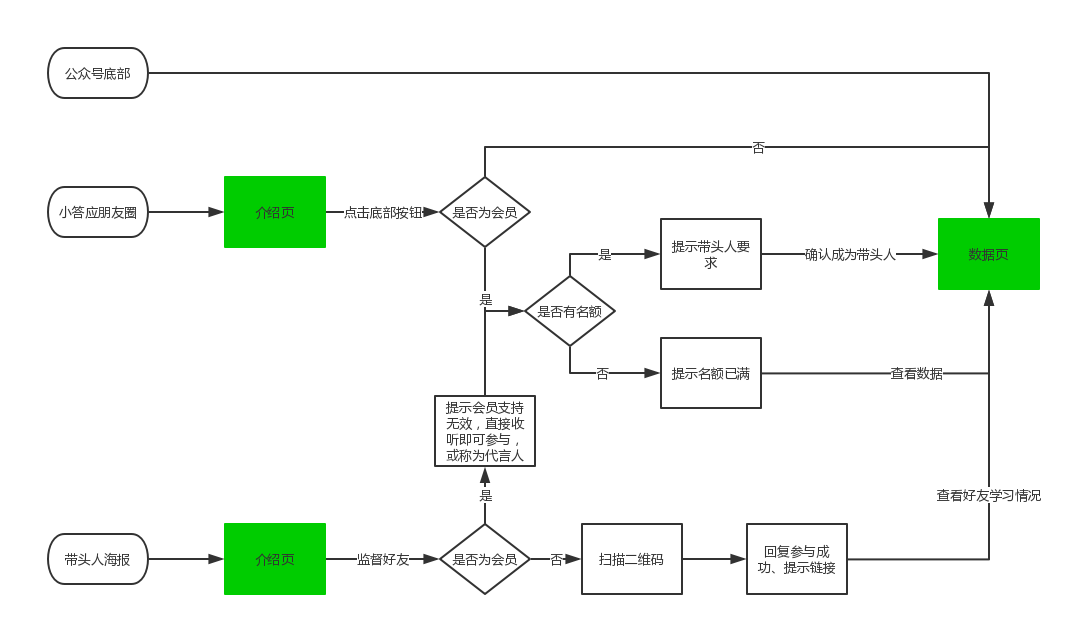
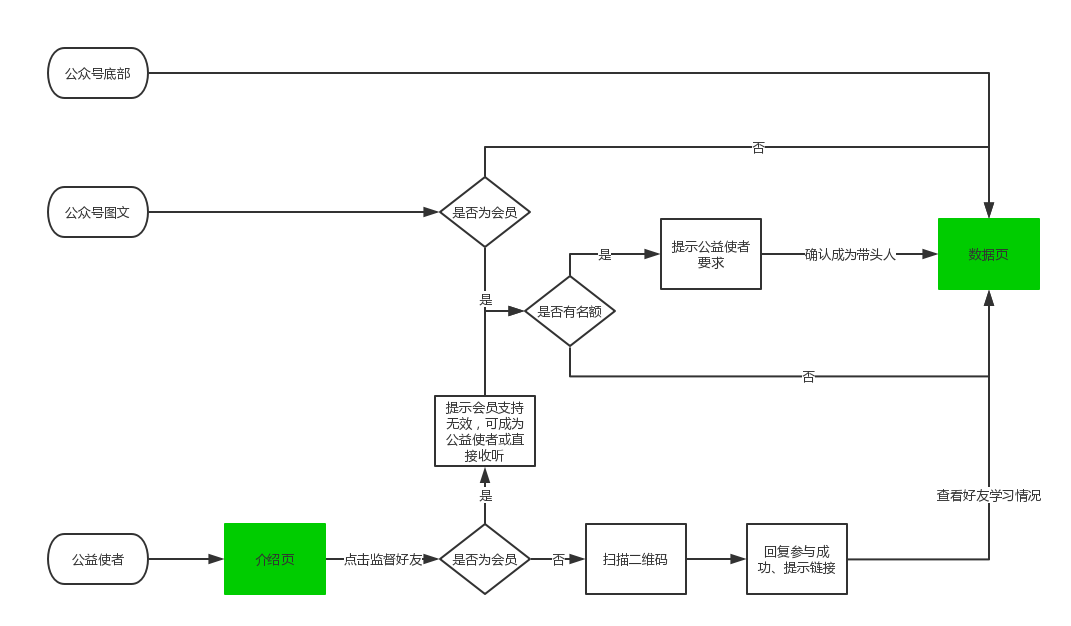
06081

diff --git a/views/emc/view-2.html b/views/emc/view-2.html
@@ -6,7 +6,7 @@
 	<li>本次活动于6月11日进行线下启动仪式，6月12日至6月16日（共计5天）为活动期，用户每学习1分钟，友邻优课代表用户向TPP捐赠1分钱。每天目标为<mark>x百万</mark>分钟。连续5日均达成目标，则<mark>干点儿啥</mark>；</li>
 	<li>本次活动有三种角色：
 		<ol>
-			<li>带头人：共计1000名，成为带头人后转发海报，获得3名好友支持即可获得<mark>“捐赠金额翻倍”</mark>特权，<mark>获得100名好友支持即可获得“再次翻倍”特权（需要讨论）</mark>；</li>
+			<li>公益使者：共计1000名，成为公益使者后转发海报，获得<mark>5</mark>名好友支持即可获得<mark>“捐赠金额翻倍”</mark>特权，<mark>获得50名好友支持即可获得“再次翻倍”特权</mark>；</li>
 			<li>参与者：所有友邻优课的有效学员（未过有效期）均自动被认定为活动参与者；</li>
 			<li>支持者：限非友邻优课学员，可以支持身份为友邻优课学员的好友，帮助好友获得更多支持；</li>
 		</ol>
@@ -21,37 +21,31 @@
 
 <h3>介绍页</h3>
 <div>
-	<p>介绍页的主要作用是向用户介绍自闭症儿童及TPP的意义。</p>
+	<p>介绍页的主要作用是向友邻公益大使的好友（非会员）介绍自闭症儿童及TPP的意义。</p>
 	<h4>页面内容</h4>
 	<ul class="ui list">
-		<li>图文介绍：pending...</li>
-		<li>底部按钮有如下三种情况：
+		<li>图文介绍：图片</li>
+		<li>底部按钮:
 			<ul>
-				<li>会员：成为带头人；
-					<ul>
-						<li>点击按钮后弹出对话框，若还有名额，提示：<p class="prd-desc">“xxx”</p></li>
-						<li>点击按钮后弹出对话框，若无名额（1000人已报名），提示：<p class="prd-desc">“xxx”</p></li>
-					</ul>
-				</li>
-				<li>非会员：查看活动情况；</li>
 				<li>通过扫描好友海报进入：支持好友。点击后提示二维码，扫码后关注友邻优课并进行自动回复，内如如下：
 					<p class="prd-desc">
 						xx你好，我是阿树。你已成功支持好友xx参与关爱自闭症儿童活动，xx每在友邻优课学习1分钟，即可捐赠一分钱。<br /><br />
-						<a>点此查看他的学习情况</a>（链接到数据页）<br /><br />
-						对友邻优课感兴趣，可以扫描下方二维码，加我微信。（下面放该用户对应的阿树老师二维码）
+						<a>点此查看他的学习情况</a>（链接到数据页）<br /><br /> 对友邻优课感兴趣，可以扫描下方二维码，加我微信。（下面放该用户对应的阿树老师二维码）
 					</p>
 				</li>
-				<li>带头人得到好友支持后，获得公众号推送：
+				<li>公益使者得到好友支持后，获得公众号推送：
 					<ul>
-						<li class="prd-desc">第1个好友：您的好友XX已支持您，还差2人即可获得“捐赠金额翻倍”特权；</li>
-						<li class="prd-desc">第2个好友：您的好友XX已支持您，还差1人即可获得“捐赠金额翻倍”特权；</li>
-						<li class="prd-desc">第3个好友：您的好友XX已支持您，恭喜您获得“捐赠金额翻倍”特权，快去努力听课吧；</li>
-						<li>第4个好友：<mark>不再提醒</mark>；
-						<li class="prd-desc">第100个好友：您的好友XX已支持您，恭喜您获得“再次翻倍”特权，你的一分钟等于别人的4分钟；</li>
+						<li class="prd-desc">第1个好友：您的好友XX已支持您，还差4人即可获得“捐赠金额翻倍”特权；</li>
+						<li class="prd-desc">第2个好友：您的好友XX已支持您，还差3人即可获得“捐赠金额翻倍”特权；</li>
+						<li class="prd-desc">第3个好友：您的好友XX已支持您，还差2人即可获得“捐赠金额翻倍”特权；</li>
+						<li class="prd-desc">第4个好友：您的好友XX已支持您，还差1人即可获得“捐赠金额翻倍”特权；</li>
+						<li class="prd-desc">第5个好友：您的好友XX已支持您，恭喜您获得“捐赠金额翻倍”特权，快去努力听课吧！（50人支持可再次翻倍）；</li>
+						<li>第6-49个好友：<mark>不再提醒</mark>；
+							<li class="prd-desc">第50个好友：您的好友XX已支持您，恭喜您获得“再次翻倍”特权，你的一分钟等于别人的4分钟；</li>
 					</ul>
-				</li>
+					</li>
 			</ul>
-		</li>
+			</li>
 	</ul>
 	<h4>页面原型</h4>
 	<img class="ui app image" src="img/prototype/emc/tpp/intro.png" />
@@ -62,20 +56,39 @@
 	<p>数据页展示活动进行过程中的数据，页面每分钟自动刷新；</p>
 	<h4>页面内容</h4>
 	<ul class="ui list">
+		<li>提示框：
+			<ul>
+				<li>进入页面后判断用户身份，若是会员&还有名额，弹出对话框提示：
+					<p class="prd-desc">“友邻EMC公益使者”有义务每天至少听课满30分钟。 分享你的专属活动海报，获得5位好友扫码支持后，公益使者的听课分钟数将会转换成2倍的捐赠费用。 *确认参与*
+					</p>
+				</li>
+				<li>若是会员且没有名额（1000人已报名），<mark>不弹出提示</mark>；</li>
+				<li>若是不是会员，不弹出提示；</li>
+			</ul>
+		</li>
 		<li>今日学习情况：仪表盘的形式，每日目标为<mark>x百万</mark>分钟，显示当日学习时长；</li>
 		<li>每日完成情况：共5天，标记出完成或未完成状态，下方显示当日捐赠金额。</li>
 		<li>我的数据：
 			<ul>
-				<li>若用户为带头人：显示排名、今日学习时长、累计捐赠、邀请按钮（点击后生成海报）、支持人数及特权获得情况；</li>
-				<li>若用户为参与者：不显示排名，显示今日学习时长、累计捐赠；</li>
+				<li>若用户为公益使者：显示排名、今日学习时长、累计捐赠、邀请按钮（点击后生成海报）、支持人数及特权获得情况；</li>
+				<li>若用户为参与者：排名处替换为“公益使者名额已满”，显示今日学习时长、累计捐赠；</li>
 				<li>若用户为支持者：显示<mark>该用户支持的好友</mark>的：排名、今日学习时长、累计捐赠、邀请按钮（点击后生成该好友的海报）、支持人数及特权获得情况；</li>
 			</ul>
 		</li>
-		<li>公益带头人排行榜：显示top100，分页显示，每页10人，点击“查看更多”后获取下一页；</li>
-		<li>TPP介绍：图文，pending...</li>
+		<li>公益使者排行榜：标题下显示“排名每15分钟更新，上次更新时间：8分钟前”，显示top100，分页显示，每页10人，点击“查看更多”后获取下一页；</li>
+		<li>TPP介绍：一张图片</li>
+		<li>相关故事（6月13日上线）：链接到新页面；</li>
 	</ul>
 	<h4>页面原型</h4>
 	<img class="ui app image" src="img/prototype/emc/tpp/statistics.png" />
+
+	<h4>排名</h4>
+	<ul class="ui list">
+		<li>仅1000名公益使者参与排名；</li>
+		<li>按照公益使者6月12-16日<mark>总听课时长</mark>进行排名，排行榜中仅显示前100人；</li>
+		<li>每个公益使者均需要知道自己的排名；</li>
+		<li>排名无需实时显示，但显示的用户收听时长和排名时用的时长需要同步；</li>
+	</ul>
 	<h4>海报内容</h4>
 	<p>pending...</p>
 </div>
@@ -101,5 +114,11 @@
 		<li>6月12-16日平均听课时长</li>
 		<li>6月12-16日总共活动参与人数</li>
 		<li>6月12-16日日均活动参与人数</li>
+	</ul>
+	<h4>总结性数据</h4>
+	<ul class="ui list">
+		<li>城市</li>
+		<li>行业</li>
+		<li>城市</li>
 	</ul>
 </div>

diff --git a/views/wechat/view-7.html b/views/wechat/view-7.html
@@ -189,7 +189,7 @@
 			<td>艺博</td>
 			<td>/</td>
 		</tr>
-		<!--<tr>
+		<tr>
 			<td>友邻大使计划启动</td>
 			<td>模板消息、私聊通知所有会员</td>
 			<td>艺博</td>
@@ -200,7 +200,7 @@
 			<td>统计数据</td>
 			<td>艺博</td>
 			<td>/</td>
-		</tr>-->
+		</tr>
 		<tr>
 			<td>终身会员按学习时长分班</td>
 			<td>满足一定时长后可升级班级</td>
@@ -536,29 +536,29 @@
 		<thead>
 			<tr>
 				<th class="one wide"></th>
-				<th>体验版</th>
 				<th>能力进阶版</th>
+				<th>巩固提升版</th>
 				<th>终身学习版</th>
 			</tr>
 		</thead>
 		<tbody>
 			<tr>
 				<td>商品名称</td>
-				<td>友邻优课体验版课程</td>
 				<td>友邻优课能力进阶课程</td>
+				<td>友邻优课巩固提升课程</td>
 				<td>友邻优课终身学习课程</td>
 			</tr>
 			<tr>
 				<td>售价</td>
-				<td>¥99</td>
-				<td>¥1790<br/>（6.30前1490）</td>
-				<td>¥5990<br/>（6.30前5690）</td>
+				<td>¥1790</td>
+				<td>¥2390</td>
+				<td>¥5990</td>
 			</tr>
 			<tr>
 				<td>权益</td>
-				<td>基础版课程30节、1个月学制、学习班级、课程讲义包邮</td>
-				<td>体验版权益+友邻金融分期特权</td>
-				<td>基础课程版权益+外媒新闻每日解读+终身学习者专属课+终身学习者专属社群+终身学习者专属讲义+线下活动优先参与权+专人规划师+好友礼品卡价值¥1790</td>
+				<td>能力进阶课程200节+365天有效期+线上班级+课程讲义包邮+友邻金融分期特权</td>
+				<td>外媒新闻解读200节+365天有效期+线上班级+友邻金融分期特权+外媒新闻每日解读</td>
+				<td>友邻优课能力进阶课程+外媒新闻每日解读+终身学习者专属课+终身学习者专属社群+终身学习者专属讲义+线下活动优先参与权+专人规划师+好友礼品卡价值¥1790</td>
 			</tr>
 			<tr>
 				<td>原型</td>

diff --git a/css/style.css b/css/style.css
@@ -26,9 +26,6 @@ code:after {
   letter-spacing: -0.2em;
   content: "\00a0";
 }
-img.ui.app.image {
-  max-width: 100% !important;
-}
 .prd-desc {
   background-color: #ffffdd;
   padding: 0.5em;

diff --git a/css/style.less b/css/style.less
@@ -28,10 +28,6 @@ code{
     }
 }
 
-img.ui.app.image{
-    max-width: 100%!important;
-}
-
 .prd-desc{
     background-color: #ffffdd;
     padding: 0.5em;
